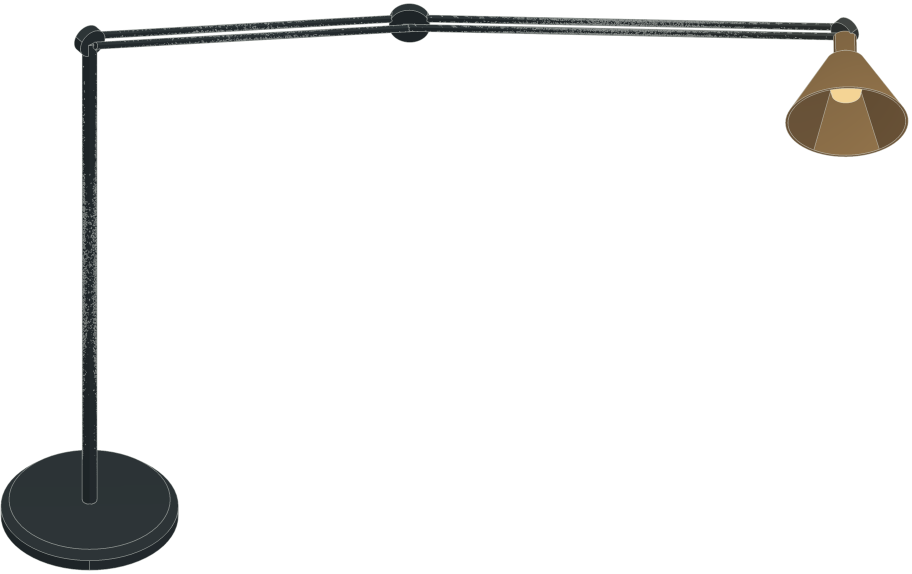
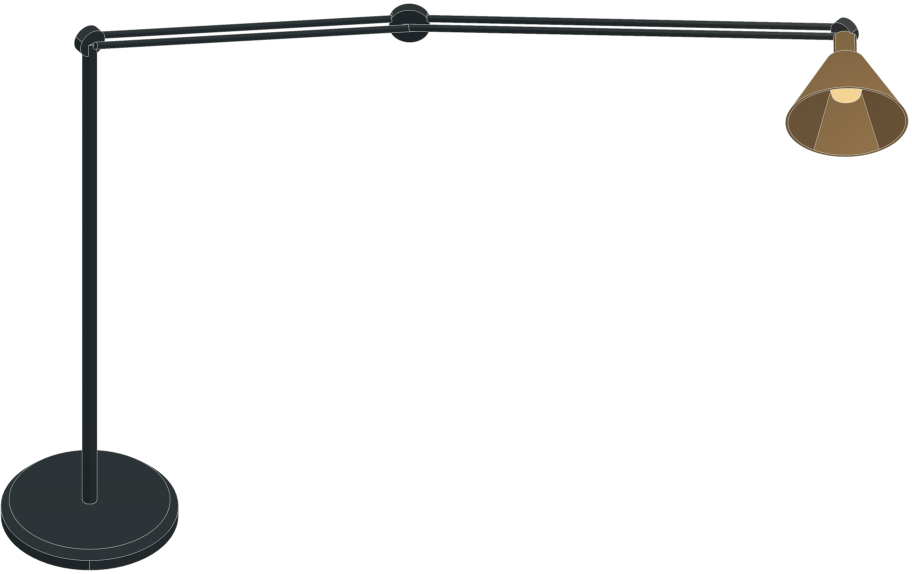
Night B: lobby lamp re-rendered on glassbox's GPU (OptiX); the CPU one had speckles on the rod
On CPU the lamp's colour pass leaves dark speckles along the rod. The original
lamp was an OptiX render on glassbox; this run's paper picture is pixel-identical
to it, so the dark one now comes from the same device. The manifest records the
exception (job G_lamp).

Changed region(s): [[0.4912, 0.0296, 0.8596, 0.0889], [0.1535, 0.0296, 0.3684, 0.0889], [0.0921, 0.2962, 0.1228, 0.6516]]

diff --git a/tools/night_b_export.py b/tools/night_b_export.py
@@ -209,7 +209,7 @@ if want("lobby"):
     # each layer from the room that made the committed one: base, faxnews, filebox, screen (+ on) and the parcel from
     # the news-fax room; the fax layer (letter tray, 328a829) from the round-5 room (L_round5); the lamp and new-work
     # layers (0d17dd6) from the lobby3_final room (L_lobby3), whose renders they match
-    src = {"base": "F_lobby_a", "faxnews": "F_lobby_a", "filebox": "F_lobby_a", "fax": "L_round5", "lamp": "L_lobby3",
+    src = {"base": "F_lobby_a", "faxnews": "F_lobby_a", "filebox": "F_lobby_a", "fax": "L_round5", "lamp": "G_lamp",
            "newplan": "L_lobby3", "screen": "F_lobby_c", "screen_on": "F_lobby_d"}
     for name, job in src.items():
         fn = "desk_screen_%s.png" if name == "screen_on" else "desk_%s_%%s.png" % name
